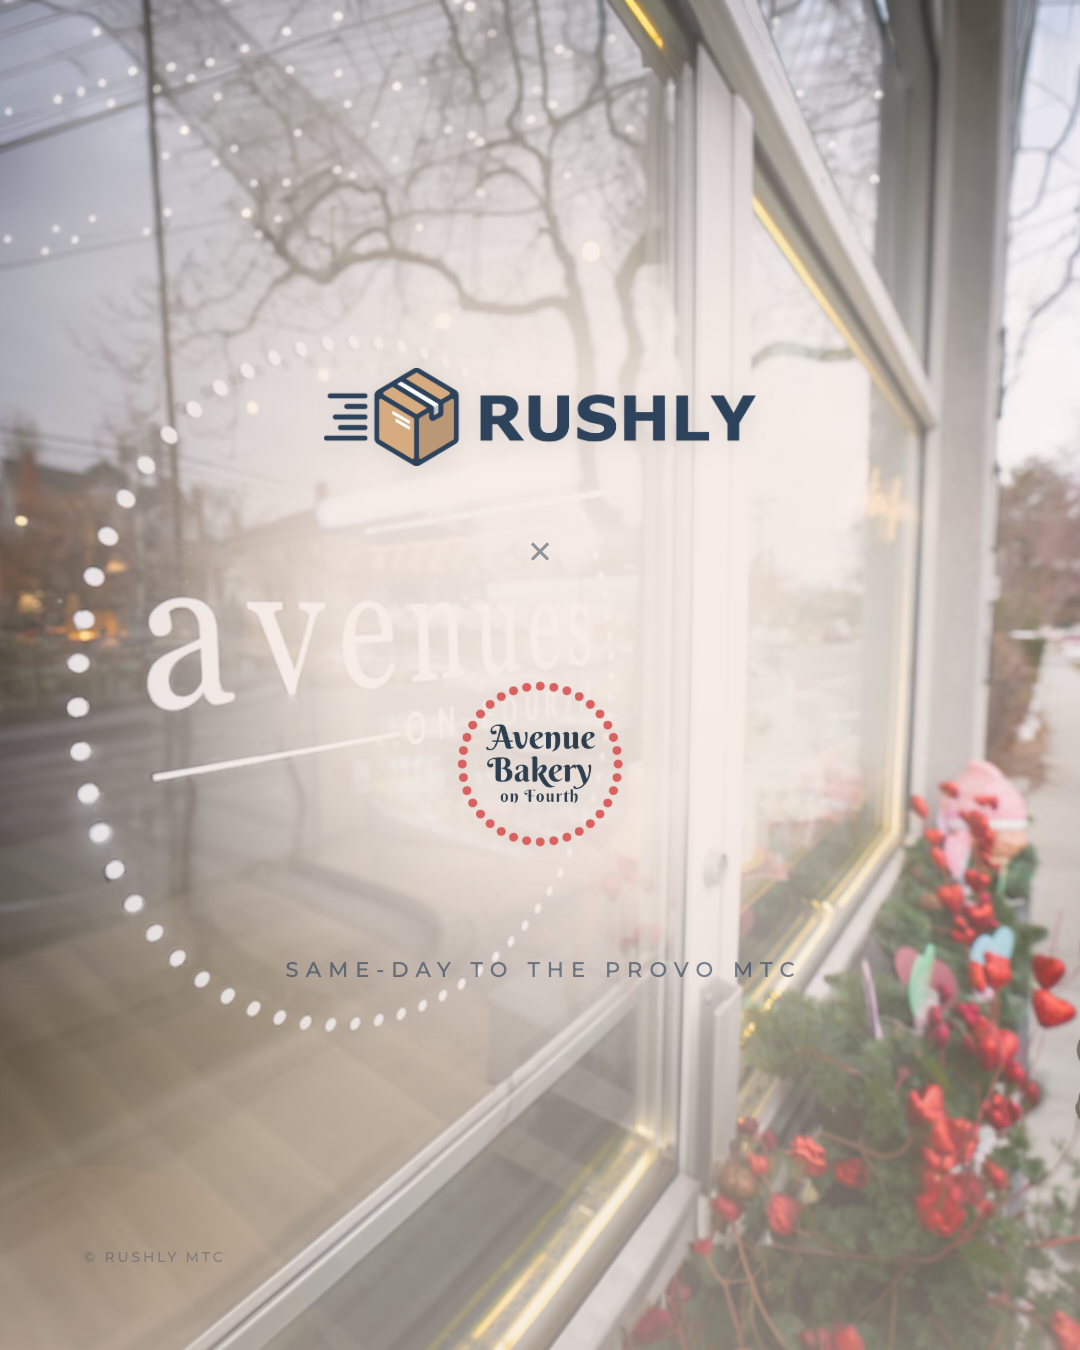
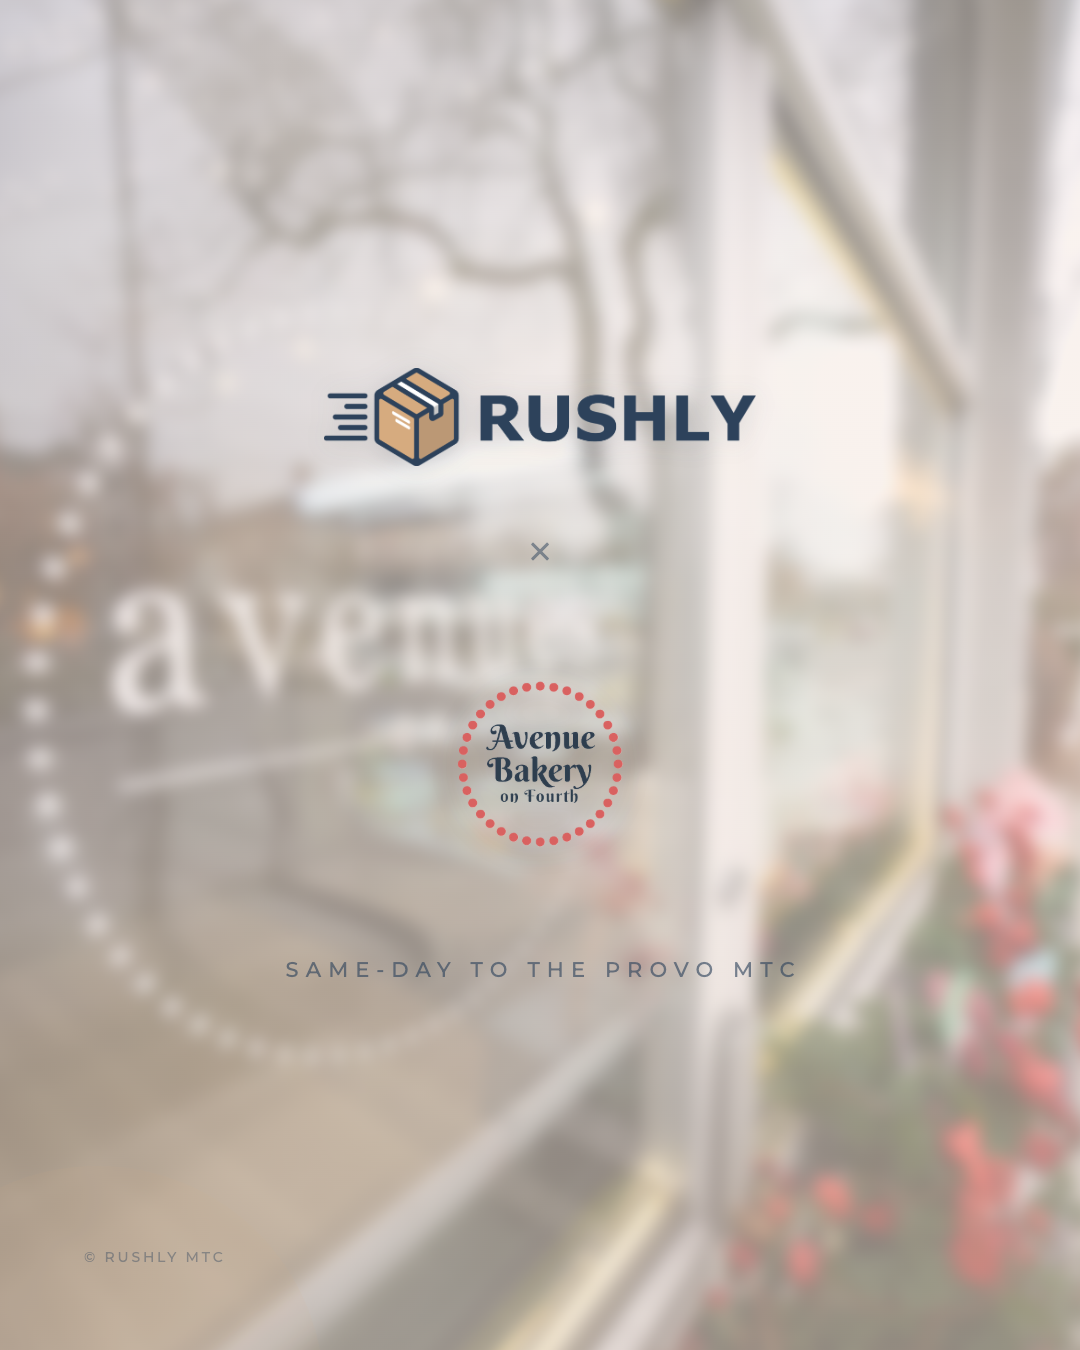
Replace lockup halo with soft blur (over-photo only); add Avenue-AF duotone
- Over-photo (non-duotone) variants: drop the cream halo; softly blur the
  storefront and lift it with an even cream veil so logos read. Scoped via
  :not(.cp-gel) so the duotones are untouched.
- Add collab-photo-avenue-af-gel (Avenue Bakery, American Fork — coral duotone)
  and surface it in the gallery.
- Cache-buster -> v6.

diff --git a/social/social.css b/social/social.css
@@ -555,24 +555,21 @@ body {
 .cp__bg { position: absolute; inset: 0; z-index: 0; }
 .cp__bg img {
   width: 100%; height: 100%; object-fit: cover; display: block;
-  filter: saturate(1.0) brightness(1.0);
 }
-/* Balanced: the storefront photo stays visible around the edges, while a soft
-   cream halo behind the lockup keeps the logos crisp. Faint --accent tint;
-   a gentle bottom lift keeps the tagline/credit legible over the photo. */
+/* Over-photo (non-duotone): the storefront is softly BLURRED and lifted by an
+   even cream veil (no halo). Logos read against the softened photo. */
+.variant--collab-photo:not(.cp-gel) .cp__bg img {
+  filter: blur(8px) saturate(1.04) brightness(1.05);
+  transform: scale(1.09); /* hide blur edges */
+}
 .cp__scrim {
   position: absolute; inset: 0; z-index: 0;
   background:
-    linear-gradient(0deg,
-      color-mix(in srgb, color-mix(in srgb, var(--accent) 12%, #F4EFE8) 46%, transparent) 0%,
-      transparent 34%),
-    radial-gradient(62% 58% at 50% 46%,
-      color-mix(in srgb, color-mix(in srgb, var(--accent) 10%, #FBF8F3) 94%, transparent) 0%,
-      color-mix(in srgb, color-mix(in srgb, var(--accent) 11%, #FBF8F3) 90%, transparent) 30%,
-      color-mix(in srgb, color-mix(in srgb, var(--accent) 14%, #F4EFE8) 48%, transparent) 60%,
-      color-mix(in srgb, color-mix(in srgb, var(--accent) 17%, #EDE6DC) 12%, transparent) 100%);
+    linear-gradient(180deg,
+      color-mix(in srgb, color-mix(in srgb, var(--accent) 9%, #F7F3EE) 50%, transparent) 0%,
+      color-mix(in srgb, color-mix(in srgb, var(--accent) 12%, #F1ECE3) 60%, transparent) 100%);
 }
-.variant--collab-photo .collab__credit { color: rgba(45,66,91,0.34); }
+.variant--collab-photo .collab__credit { color: rgba(45,66,91,0.4); }
 
 .variant--collab-photo .post__inner {
   align-items: center; justify-content: center; text-align: center;

diff --git a/social/index.html b/social/index.html
@@ -3,7 +3,7 @@
 <head>
 <meta charset="UTF-8">
 <title>Rushly × Partner — Social Templates</title>
-<link rel="stylesheet" href="social.css?v=5">
+<link rel="stylesheet" href="social.css?v=6">
 <style>
   /* Scale each fixed-size post down to a preview thumbnail */
   .frame iframe { transform-origin: top left; }
@@ -87,7 +87,7 @@
 
   <div class="style-head" style="margin-top:56px">
     <h2>Style C — <em>Collab</em> over photo</h2>
-    <p>The partner photo stays visible, with a soft cream halo behind the lockup keeping the logos crisp · standard Rushly logo &amp; the real partner logo sitting directly (no badge) · a touch of the partner's brand color · tracked small text.</p>
+    <p>The partner photo sits softly blurred behind an even cream veil · standard Rushly logo &amp; the real partner logo sitting directly (no badge) · a touch of the partner's brand color · tracked small text.</p>
   </div>
 
   <div class="row">
@@ -149,6 +149,10 @@
     <div class="frame t-square">
       <div class="frame__label">Cutler · golden wash</div>
       <div class="frame__wrap"><iframe src="collab-photo-cutler-gel.html" scrolling="no"></iframe></div>
+    </div>
+    <div class="frame t-square">
+      <div class="frame__label">Avenue · American Fork · coral wash</div>
+      <div class="frame__wrap"><iframe src="collab-photo-avenue-af-gel.html" scrolling="no"></iframe></div>
     </div>
   </div>
 

diff --git a/social/collab-photo-avenue-af-gel.html b/social/collab-photo-avenue-af-gel.html
@@ -2,19 +2,19 @@
 <html lang="en">
 <head>
 <meta charset="UTF-8">
-<title>Rushly × Cutler Cookie Co. — Collab Photo</title>
+<title>Rushly × Avenue Bakery (AF) — Collab Gel</title>
 <link rel="stylesheet" href="social.css?v=6">
 </head>
 <body>
 
-<!-- COLLAB OVER PHOTO · Cutler Cookie Co. · accent #ECD877 -->
-<div class="post fmt--square variant--collab-photo" style="--accent:#ECD877">
-  <div class="cp__bg"><img src="assets/cutler-cookie-co-bountiful.png?v=3" alt=""></div>
+<!-- COLLAB OVER PHOTO · DUOTONE GEL (Avenue Bakery — American Fork) · coral -->
+<div class="post fmt--square variant--collab-photo cp-gel" style="--accent:#E2876F">
+  <div class="cp__bg"><img src="assets/avenue-bakery-american-fork.jpeg?v=3" alt=""></div>
   <div class="cp__scrim"></div>
   <div class="post__inner">
     <div class="cp__rushly"><img src="assets/rushly-logo.png?v=3" alt="Rushly"></div>
     <div class="cp__x">&times;</div>
-    <div class="cp__badge "><img src="assets/logo-cutler-cookie.png?v=3" alt="Cutler Cookie Co."></div>
+    <div class="cp__badge"><img src="assets/logo-avenue-bakery.png?v=3" alt="Avenue Bakery"></div>
     <div class="cp__tagline">Same-day to the Provo MTC</div>
   </div>
   <div class="collab__credit">© Rushly MTC</div>

diff --git a/social/collab-photo-square.html b/social/collab-photo-square.html
@@ -3,7 +3,7 @@
 <head>
 <meta charset="UTF-8">
 <title>Rushly × Avenue Bakery — Collab Photo Square 1080×1080</title>
-<link rel="stylesheet" href="social.css?v=5">
+<link rel="stylesheet" href="social.css?v=6">
 </head>
 <body>
 

diff --git a/social/collab-light-square.html b/social/collab-light-square.html
@@ -3,7 +3,7 @@
 <head>
 <meta charset="UTF-8">
 <title>Rushly | Avenue Bakery — Collab Light Square 1080×1080</title>
-<link rel="stylesheet" href="social.css?v=5">
+<link rel="stylesheet" href="social.css?v=6">
 </head>
 <body>
 

diff --git a/social/landscape-minimal.html b/social/landscape-minimal.html
@@ -3,7 +3,7 @@
 <head>
 <meta charset="UTF-8">
 <title>Rushly × Avenue Bakery — Landscape Minimal 1200×630</title>
-<link rel="stylesheet" href="social.css?v=5">
+<link rel="stylesheet" href="social.css?v=6">
 </head>
 <body>
 

diff --git a/social/portrait-minimal.html b/social/portrait-minimal.html
@@ -3,7 +3,7 @@
 <head>
 <meta charset="UTF-8">
 <title>Rushly × Avenue Bakery — Portrait Minimal 1080×1350</title>
-<link rel="stylesheet" href="social.css?v=5">
+<link rel="stylesheet" href="social.css?v=6">
 </head>
 <body>
 

diff --git a/social/square-minimal.html b/social/square-minimal.html
@@ -3,7 +3,7 @@
 <head>
 <meta charset="UTF-8">
 <title>Rushly × Avenue Bakery — Square Minimal 1080×1080</title>
-<link rel="stylesheet" href="social.css?v=5">
+<link rel="stylesheet" href="social.css?v=6">
 </head>
 <body>
 

diff --git a/social/collab-square.html b/social/collab-square.html
@@ -3,7 +3,7 @@
 <head>
 <meta charset="UTF-8">
 <title>Rushly × Avenue Bakery — Collab Square 1080×1080</title>
-<link rel="stylesheet" href="social.css?v=5">
+<link rel="stylesheet" href="social.css?v=6">
 </head>
 <body>
 

diff --git a/social/story-minimal.html b/social/story-minimal.html
@@ -3,7 +3,7 @@
 <head>
 <meta charset="UTF-8">
 <title>Rushly × Avenue Bakery — Story Minimal 1080×1920</title>
-<link rel="stylesheet" href="social.css?v=5">
+<link rel="stylesheet" href="social.css?v=6">
 </head>
 <body>
 

diff --git a/social/collab-photo-landscape.html b/social/collab-photo-landscape.html
@@ -3,7 +3,7 @@
 <head>
 <meta charset="UTF-8">
 <title>Rushly × Avenue Bakery on Fourth — Collab Photo</title>
-<link rel="stylesheet" href="social.css?v=5">
+<link rel="stylesheet" href="social.css?v=6">
 </head>
 <body>
 

diff --git a/social/collab-photo-portrait.html b/social/collab-photo-portrait.html
@@ -3,7 +3,7 @@
 <head>
 <meta charset="UTF-8">
 <title>Rushly × Avenue Bakery on Fourth — Collab Photo</title>
-<link rel="stylesheet" href="social.css?v=5">
+<link rel="stylesheet" href="social.css?v=6">
 </head>
 <body>
 
